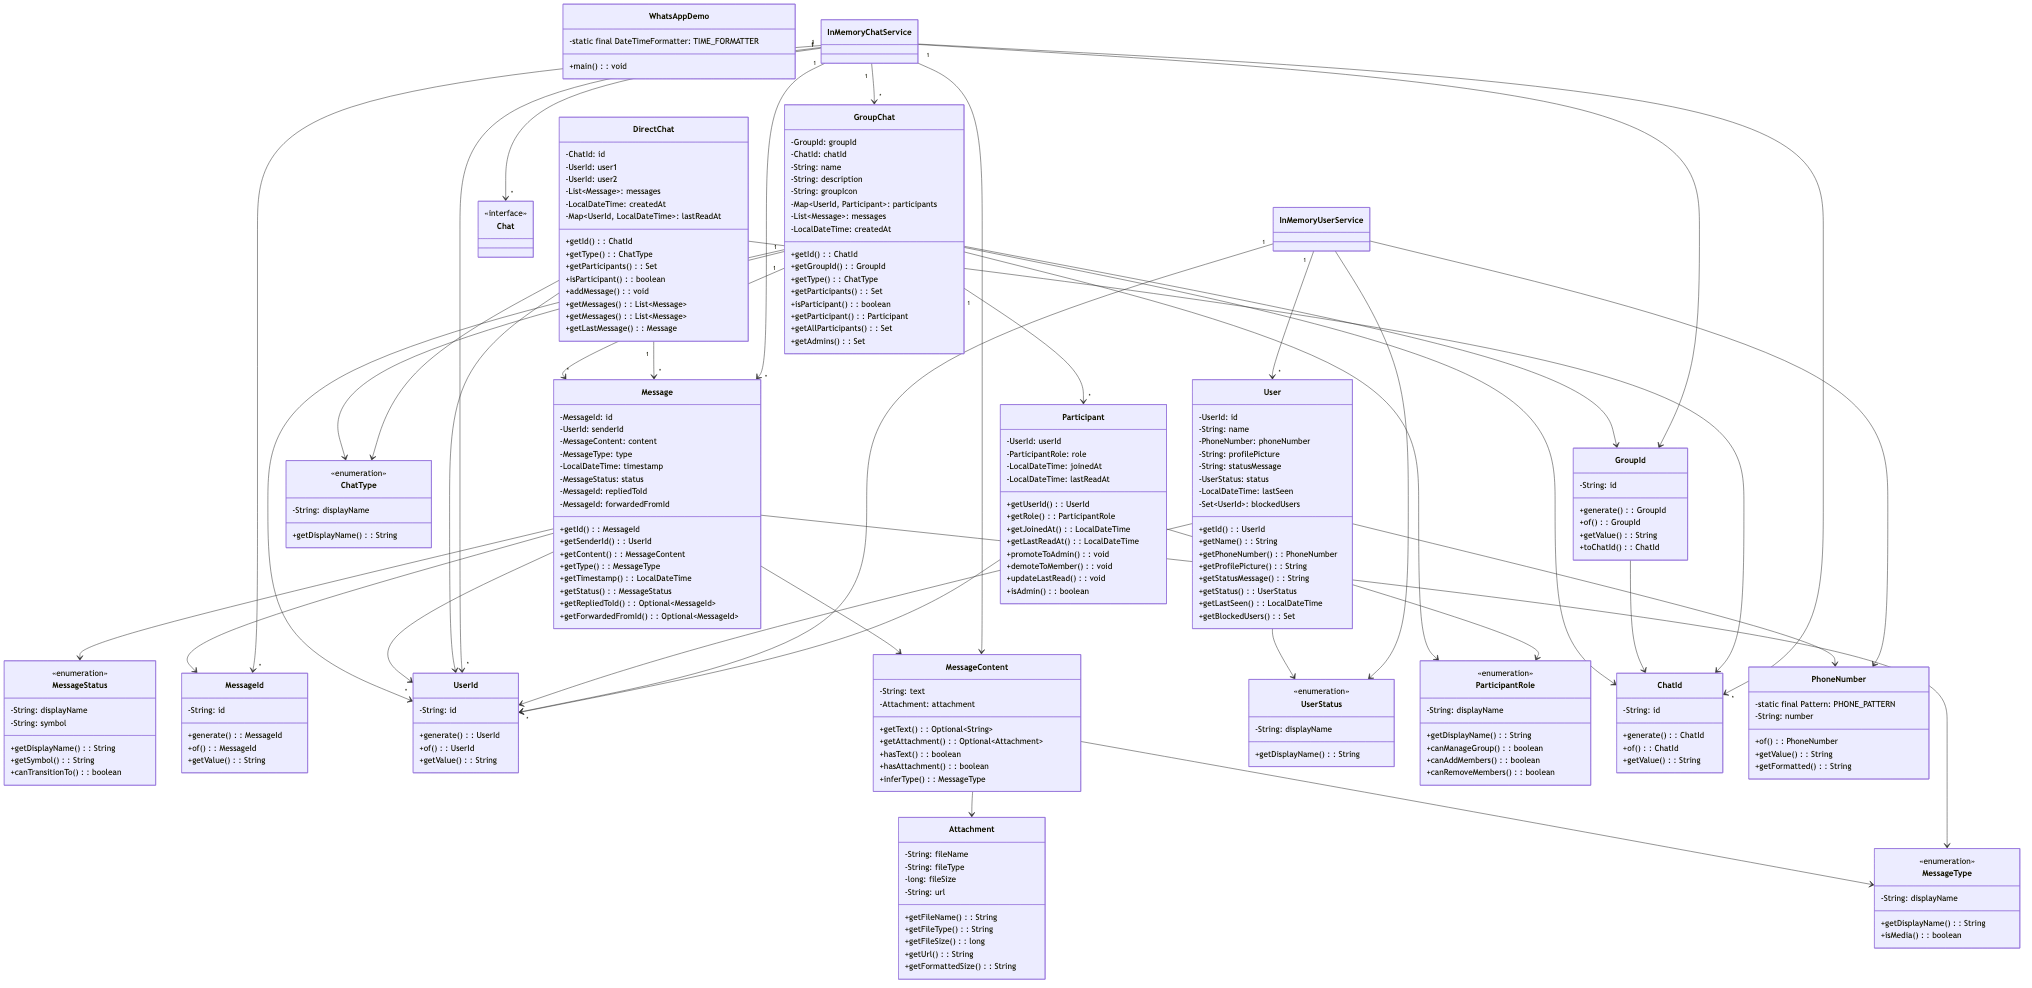
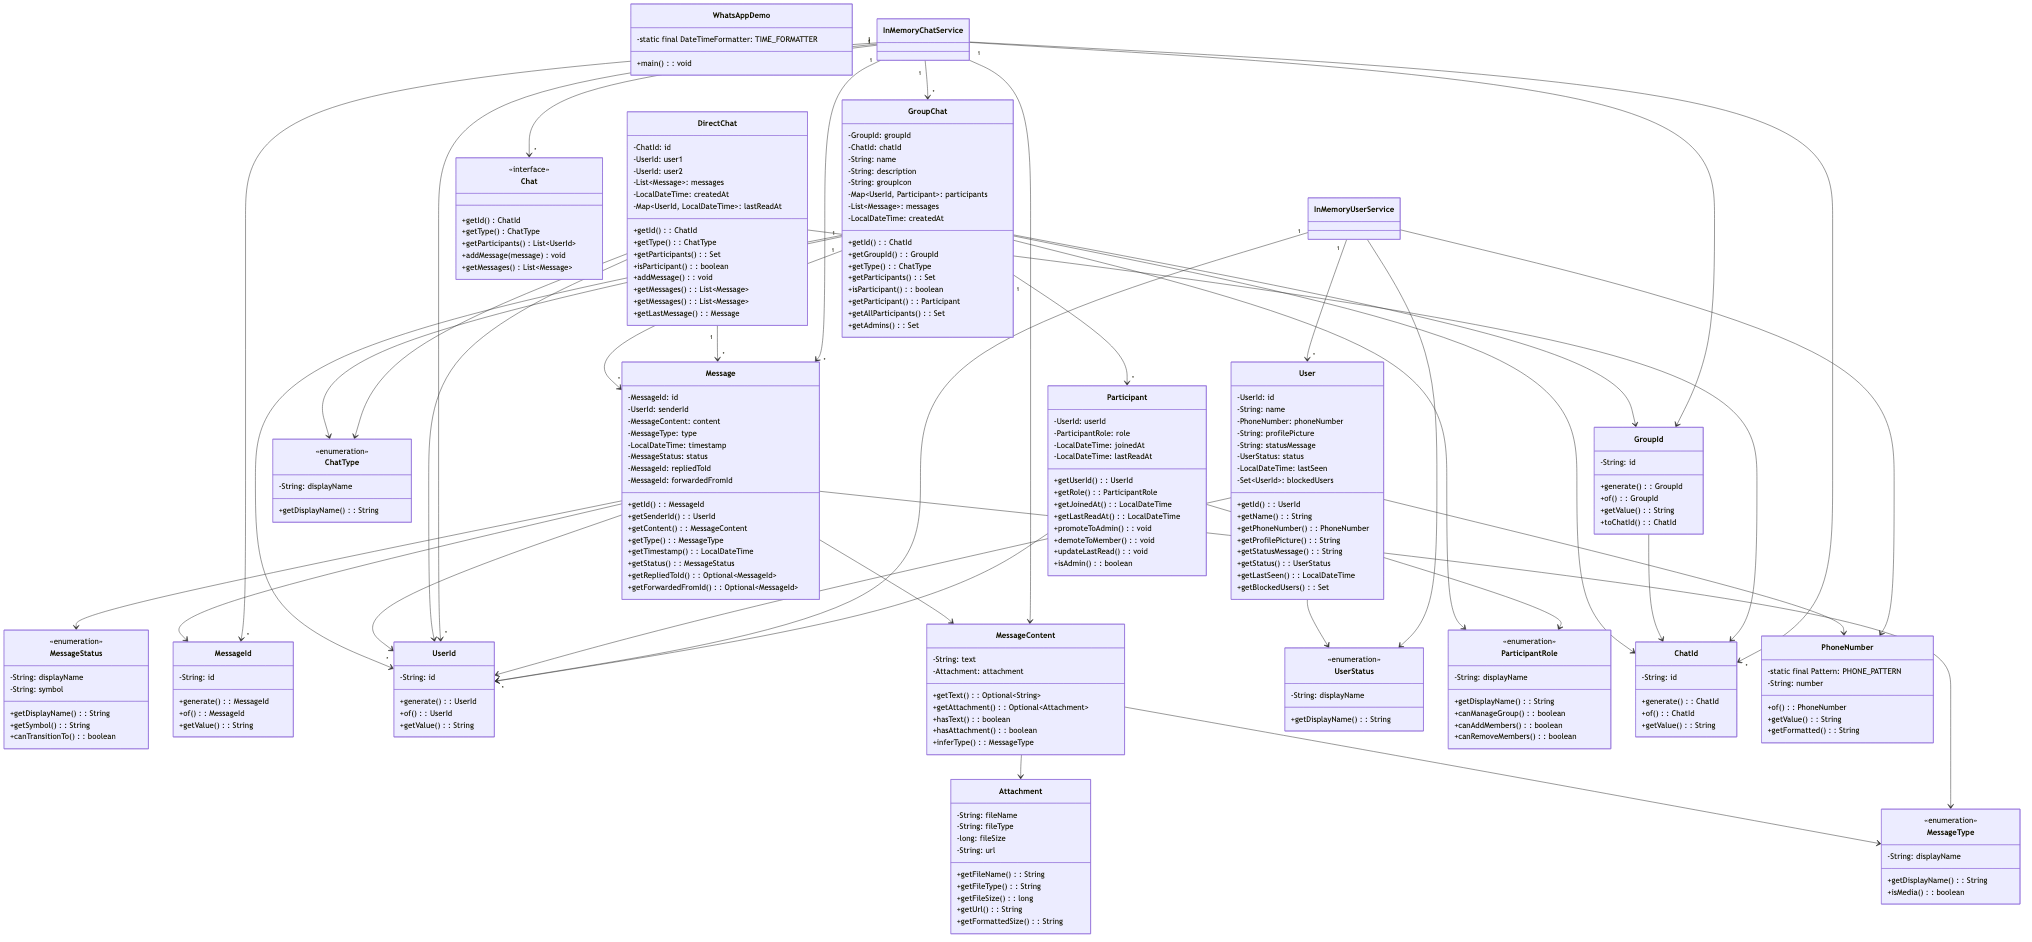
fix: add methods to WhatsApp Chat interface

diff --git a/docs/problems/whatsapp/README.md b/docs/problems/whatsapp/README.md
@@ -363,6 +363,11 @@ classDiagram
 
     class Chat {
         <<interface>>
+        +getId() ChatId
+        +getType() ChatType
+        +getParticipants() List~UserId~
+        +addMessage(message) void
+        +getMessages() List~Message~
     }
 
     MessageContent --> Attachment
